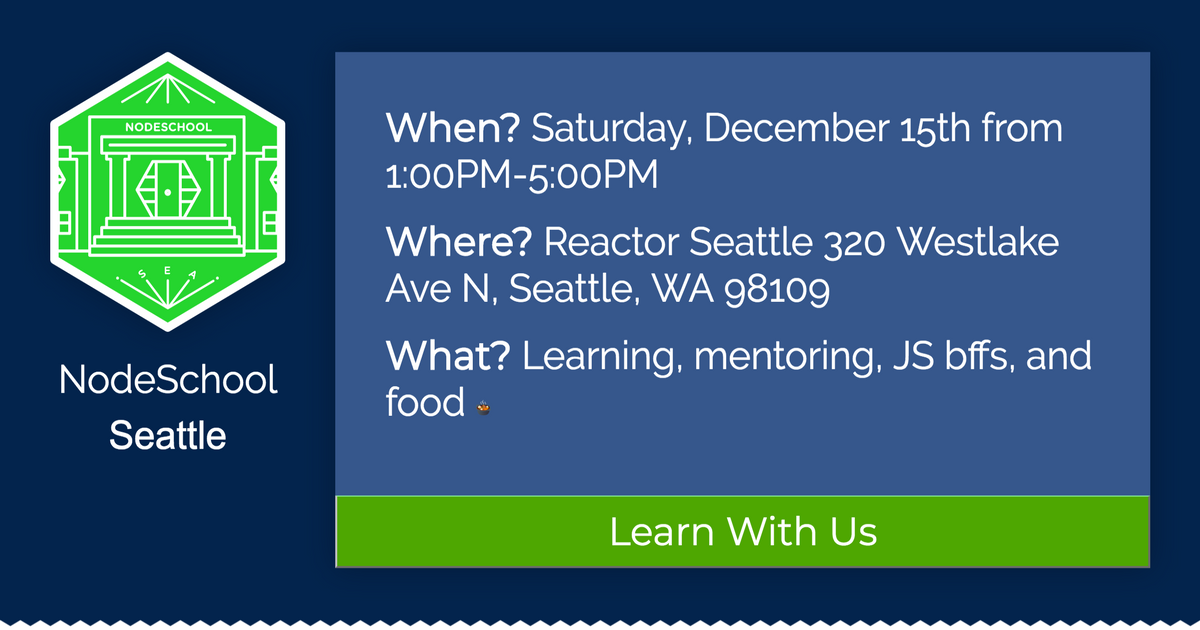
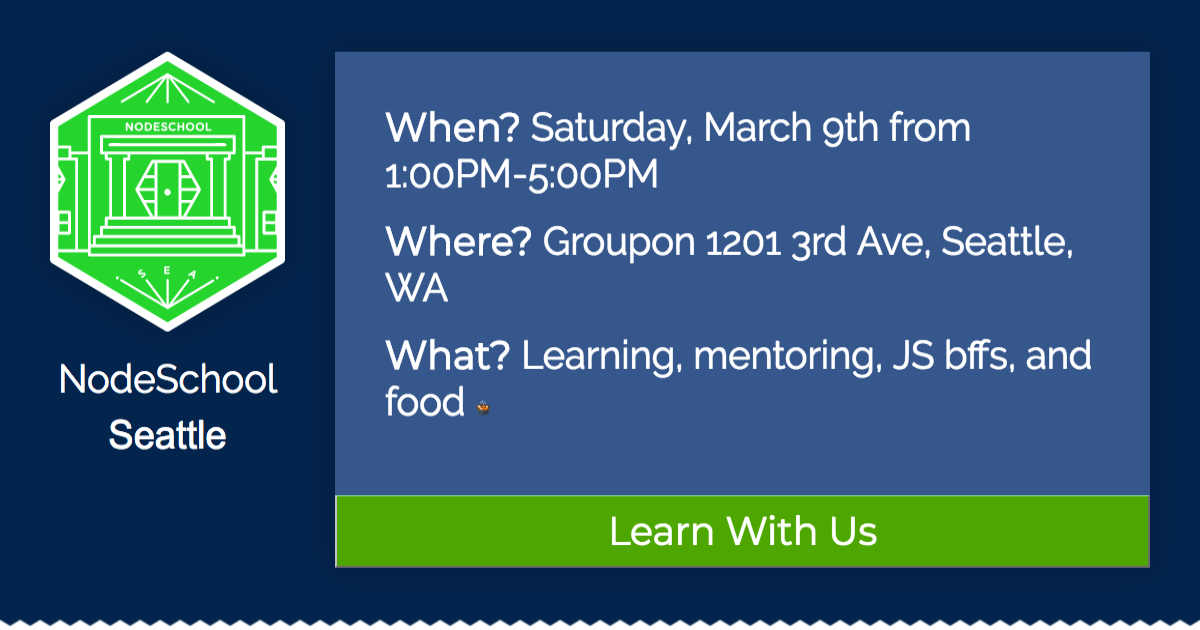
AUTOMATIC site update (#78)
* AUTOMATIC site update

* Adding social image

diff --git a/docs/index.html b/docs/index.html
@@ -7,14 +7,14 @@
     <meta property="og:type" content="website" />
     <meta property="og:description" content="NodeSchool Seattle is a meetup dedicated to helping people learn JavaScript." />
     <meta property="og:url" content="https://nodeschool.io/seattle/" />
-    <meta property="og:image" content="https://nodeschool.io/seattle/images/social.png?t=1542585380998" />
+    <meta property="og:image" content="https://nodeschool.io/seattle/images/social.png?t=1551209576573" />
     <!--Twitter-->
     <meta name="twitter:card" content="summary">
     <meta name="twitter:site" content="@nodeschool_sea">
     <meta name="twitter:creator" content="@nodeschool_sea">
     <meta name="twitter:title" content="NodeSchool Seattle">
     <meta name="twitter:description" content="NodeSchool Seattle is a meetup dedicated to helping people learn JavaScript.">
-    <meta name="twitter:image" content="https://nodeschool.io/seattle/images/social.png?t=1542585380998">
+    <meta name="twitter:image" content="https://nodeschool.io/seattle/images/social.png?t=1551209576573">
     <title>NodeSchool Seattle</title>
     <link rel="stylesheet" href="./styles/index.css" />
     <link rel="icon" href="./images/favicon.png" type="image/png" />
@@ -61,13 +61,13 @@
 
           <div class="next-event">
             <div class="next-event__description">
-              <h2 class="next-event__heading">Our Next Event is on December 15th</h2>
+              <h2 class="next-event__heading">Our Next Event is on March 9th</h2>
               <ul class="next-event__info">
                 <li class="next-event__info__item">
-                  <strong class="strong--alt">When?</strong> Saturday, December 15th from 1:00PM-5:00PM
+                  <strong class="strong--alt">When?</strong> Saturday, March 9th from 1:00PM-5:00PM
                 </li>
                 <li class="next-event__info__item">
-                  <strong class="strong--alt">Where?</strong> Reactor Seattle 320 Westlake Ave N, Seattle, WA 98109 [<a href="http://maps.google.com/?q=320%20Westlake%20Ave%20N%2C%20Seattle%2C%20WA%2098109">map</a>]
+                  <strong class="strong--alt">Where?</strong> Groupon 1201 3rd Ave, Seattle, WA [<a href="http://maps.google.com/?q=1201%203rd%20Ave%2C%20Seattle%2C%20WA">map</a>]
                 </li>
                 <li class="next-event__info__item">
                   <strong class="strong--alt">What?</strong> Learning, mentoring, JS bffs, and food <img src="./images/pot-of-food.png" class="emoji" alt="pot of food emoji">
@@ -75,9 +75,9 @@
               </ul>
             </div>
             <nav class="next-event__links">
-              <a class="next-event__links__learner next-event__links__link button" href="https:&#x2F;&#x2F;www.meetup.com&#x2F;Seattle-NodeSchool&#x2F;events&#x2F;256529364&#x2F;">
+              <a class="next-event__links__learner next-event__links__link button" href="">
                 Sign up as a Learner
-              </a><a class="next-event__links__mentor next-event__links__link button" href="https:&#x2F;&#x2F;github.com&#x2F;nodeschool&#x2F;seattle&#x2F;issues&#x2F;75">
+              </a><a class="next-event__links__mentor next-event__links__link button" href="">
                 Sign up as a Mentor
               </a>
             </nav>
@@ -91,7 +91,7 @@
           <h3 class="focused__subheading">NodeBots</h3>
           <p>Host Gaius Baltar will be leading a demonstration of how to make an LED blink with Node.</p>
           <p>Registration will be limited to twenty attendees.</p>
-          <p><a href="https:&#x2F;&#x2F;www.meetup.com&#x2F;Seattle-NodeSchool&#x2F;events&#x2F;256529364&#x2F;" class="button focused__register">Register now!</a></p>
+          <p><a href="" class="button focused__register">Register now!</a></p>
         </div>
       </section>
 
@@ -152,7 +152,7 @@
                 <ul><li>Having also completed some elective workshoppers is a great bonus.</li></ul>
                 <li>Review the <a href="https://github.com/nodeschool/organizers/wiki/Event-Mentor-Best-Practices">Mentor Best Practices</a> wiki page.</li>
                 <li>Arrive 30 minutes early (12:30p) so we can get setup and have our mentor meeting.</li>
-                <li>Sign up on <a href="https:&#x2F;&#x2F;github.com&#x2F;nodeschool&#x2F;seattle&#x2F;issues&#x2F;75">the event's GitHub issue</a>!</li>
+                <li>Sign up on <a href="">the event's GitHub issue</a>!</li>
               </ul>
             </dd>
 

diff --git a/docs/social.html b/docs/social.html
@@ -23,10 +23,10 @@
             <div class="next-event__description">
               <ul class="next-event__info">
                 <li class="next-event__info__item">
-                  <strong class="strong--alt">When?</strong> Saturday, December 15th from 1:00PM-5:00PM
+                  <strong class="strong--alt">When?</strong> Saturday, March 9th from 1:00PM-5:00PM
                 </li>
                 <li class="next-event__info__item">
-                  <strong class="strong--alt">Where?</strong> Reactor Seattle 320 Westlake Ave N, Seattle, WA 98109
+                  <strong class="strong--alt">Where?</strong> Groupon 1201 3rd Ave, Seattle, WA
                 </li>
                 <li class="next-event__info__item">
                   <strong class="strong--alt">What?</strong> Learning, mentoring, JS bffs, and food <img src="./images/pot-of-food.png" class="emoji" alt="pot of food emoji">
